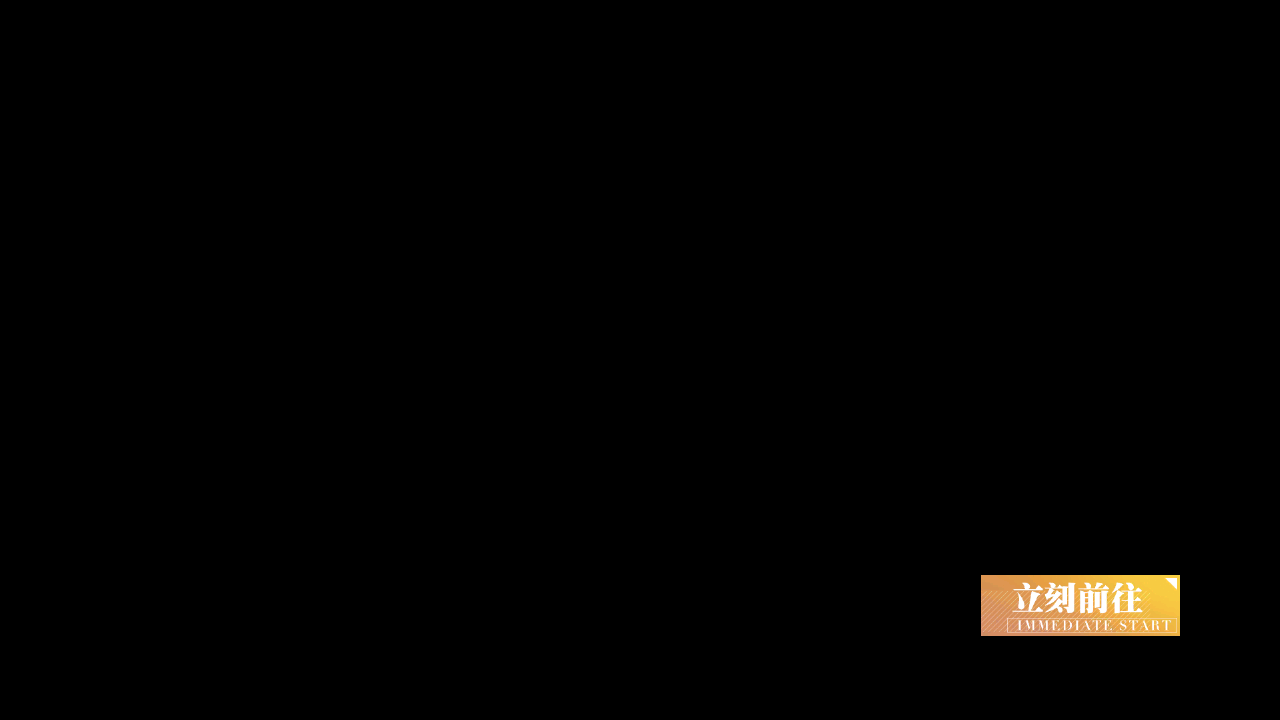
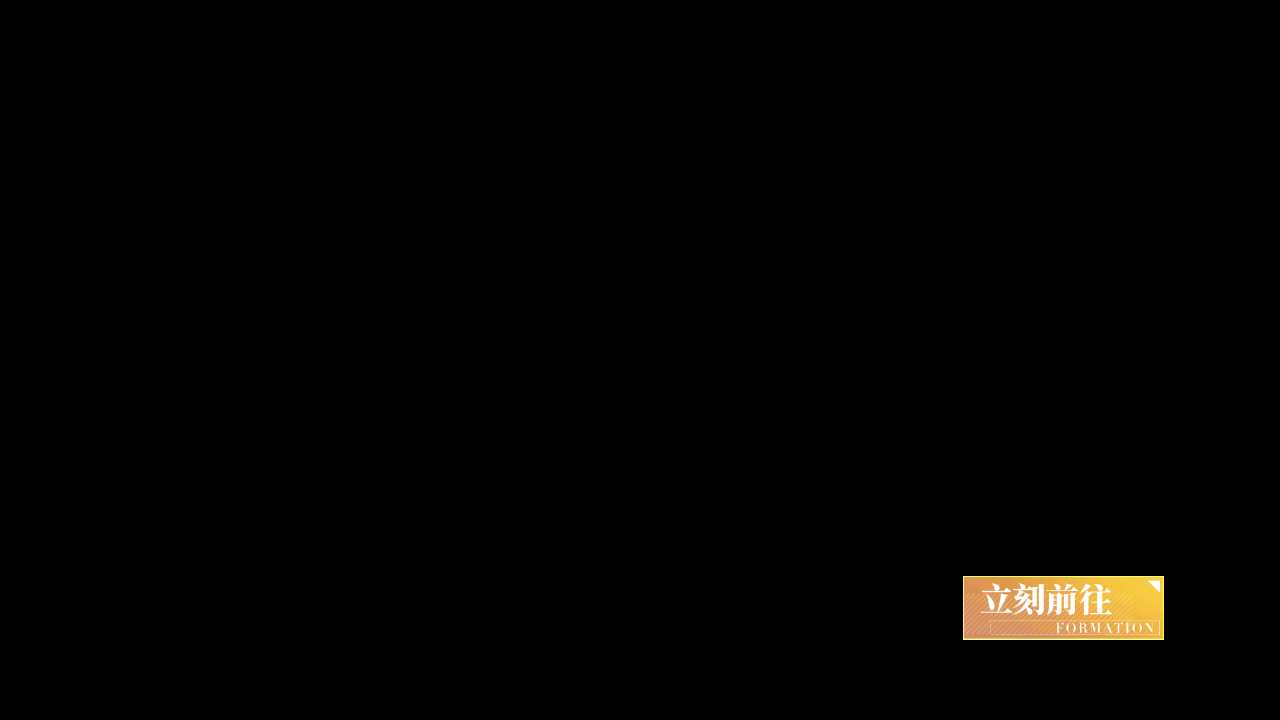
Fix: [TW] FLEET_PREPARATION (#295)

Changed region(s): [[0.75, 0.7944, 0.9375, 0.8861]]

diff --git a/module/map/assets.py b/module/map/assets.py
@@ -13,7 +13,7 @@ FLEET_2_CHOOSE = Button(area={'cn': (1009, 303, 1071, 360), 'en': (1008, 303, 10
 FLEET_2_CLEAR = Button(area={'cn': (1091, 303, 1153, 360), 'en': (1090, 303, 1153, 360), 'jp': (1092, 302, 1151, 360), 'tw': (1108, 299, 1172, 357)}, color={'cn': (155, 155, 157), 'en': (138, 139, 142), 'jp': (149, 149, 151), 'tw': (153, 154, 156)}, button={'cn': (1091, 303, 1153, 360), 'en': (1090, 303, 1153, 360), 'jp': (1092, 302, 1151, 360), 'tw': (1108, 299, 1172, 357)}, file={'cn': './assets/cn/map/FLEET_2_CLEAR.png', 'en': './assets/en/map/FLEET_2_CLEAR.png', 'jp': './assets/jp/map/FLEET_2_CLEAR.png', 'tw': './assets/tw/map/FLEET_2_CLEAR.png'})
 FLEET_2_IN_USE = Button(area={'cn': (374, 297, 453, 375), 'en': (374, 297, 453, 375), 'jp': (374, 297, 453, 375), 'tw': (390, 291, 473, 374)}, color={'cn': (198, 190, 194), 'en': (198, 190, 194), 'jp': (198, 190, 194), 'tw': (74, 66, 66)}, button={'cn': (374, 297, 453, 375), 'en': (374, 297, 453, 375), 'jp': (374, 297, 453, 375), 'tw': (390, 291, 473, 374)}, file={'cn': './assets/cn/map/FLEET_2_IN_USE.png', 'en': './assets/en/map/FLEET_2_IN_USE.png', 'jp': './assets/jp/map/FLEET_2_IN_USE.png', 'tw': './assets/tw/map/FLEET_2_IN_USE.png'})
 FLEET_NUM = Button(area={'cn': (208, 72, 230, 104), 'en': (205, 71, 229, 104), 'jp': (208, 72, 230, 104), 'tw': (208, 72, 230, 104)}, color={'cn': (42, 93, 125), 'en': (45, 78, 115), 'jp': (42, 93, 125), 'tw': (42, 93, 125)}, button={'cn': (208, 72, 230, 104), 'en': (205, 71, 229, 104), 'jp': (208, 72, 230, 104), 'tw': (208, 72, 230, 104)}, file={'cn': './assets/cn/map/FLEET_NUM.png', 'en': './assets/en/map/FLEET_NUM.png', 'jp': './assets/jp/map/FLEET_NUM.png', 'tw': './assets/tw/map/FLEET_NUM.png'})
-FLEET_PREPARATION = Button(area={'cn': (965, 578, 1162, 637), 'en': (969, 576, 1160, 637), 'jp': (984, 584, 1139, 631), 'tw': (981, 575, 1180, 636)}, color={'cn': (236, 186, 116), 'en': (233, 175, 90), 'jp': (230, 178, 102), 'tw': (235, 185, 114)}, button={'cn': (965, 578, 1162, 637), 'en': (969, 576, 1160, 637), 'jp': (984, 584, 1139, 631), 'tw': (981, 575, 1180, 636)}, file={'cn': './assets/cn/map/FLEET_PREPARATION.png', 'en': './assets/en/map/FLEET_PREPARATION.png', 'jp': './assets/jp/map/FLEET_PREPARATION.png', 'tw': './assets/tw/map/FLEET_PREPARATION.png'})
+FLEET_PREPARATION = Button(area={'cn': (965, 578, 1162, 637), 'en': (969, 576, 1160, 637), 'jp': (984, 584, 1139, 631), 'tw': (963, 576, 1164, 640)}, color={'cn': (236, 186, 116), 'en': (233, 175, 90), 'jp': (230, 178, 102), 'tw': (236, 187, 110)}, button={'cn': (965, 578, 1162, 637), 'en': (969, 576, 1160, 637), 'jp': (984, 584, 1139, 631), 'tw': (963, 576, 1164, 640)}, file={'cn': './assets/cn/map/FLEET_PREPARATION.png', 'en': './assets/en/map/FLEET_PREPARATION.png', 'jp': './assets/jp/map/FLEET_PREPARATION.png', 'tw': './assets/tw/map/FLEET_PREPARATION.png'})
 FLEET_PREPARATION_HARD_1 = Button(area={'cn': (184, 263, 986, 264), 'en': (184, 263, 986, 264), 'jp': (184, 263, 986, 264), 'tw': (184, 263, 986, 264)}, color={'cn': (255, 219, 0), 'en': (255, 219, 0), 'jp': (255, 219, 0), 'tw': (255, 219, 0)}, button={'cn': (184, 263, 986, 264), 'en': (184, 263, 986, 264), 'jp': (184, 263, 986, 264), 'tw': (184, 263, 986, 264)}, file={'cn': './assets/cn/map/FLEET_PREPARATION_HARD_1.png', 'en': './assets/en/map/FLEET_PREPARATION_HARD_1.png', 'jp': './assets/jp/map/FLEET_PREPARATION_HARD_1.png', 'tw': './assets/tw/map/FLEET_PREPARATION_HARD_1.png'})
 FLEET_PREPARATION_HARD_2 = Button(area={'cn': (185, 396, 985, 397), 'en': (185, 396, 985, 397), 'jp': (185, 396, 985, 397), 'tw': (185, 396, 985, 397)}, color={'cn': (255, 215, 0), 'en': (255, 215, 0), 'jp': (255, 215, 0), 'tw': (255, 215, 0)}, button={'cn': (185, 396, 985, 397), 'en': (185, 396, 985, 397), 'jp': (185, 396, 985, 397), 'tw': (185, 396, 985, 397)}, file={'cn': './assets/cn/map/FLEET_PREPARATION_HARD_2.png', 'en': './assets/en/map/FLEET_PREPARATION_HARD_2.png', 'jp': './assets/jp/map/FLEET_PREPARATION_HARD_2.png', 'tw': './assets/tw/map/FLEET_PREPARATION_HARD_2.png'})
 MAP_CAT_ATTACK = Button(area={'cn': (1237, 103, 1252, 153), 'en': (1237, 103, 1252, 153), 'jp': (1237, 103, 1252, 153), 'tw': (1237, 103, 1252, 153)}, color={'cn': (43, 45, 52), 'en': (43, 45, 52), 'jp': (43, 45, 52), 'tw': (43, 45, 52)}, button={'cn': (1148, 653, 1262, 705), 'en': (1147, 651, 1263, 701), 'jp': (1149, 653, 1261, 704), 'tw': (1148, 653, 1262, 705)}, file={'cn': './assets/cn/map/MAP_CAT_ATTACK.png', 'en': './assets/en/map/MAP_CAT_ATTACK.png', 'jp': './assets/jp/map/MAP_CAT_ATTACK.png', 'tw': './assets/tw/map/MAP_CAT_ATTACK.png'})
